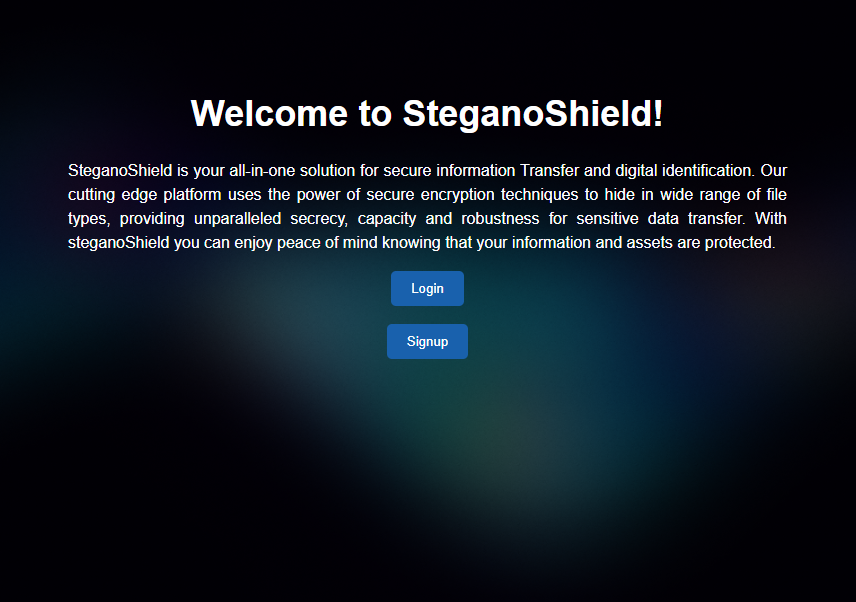
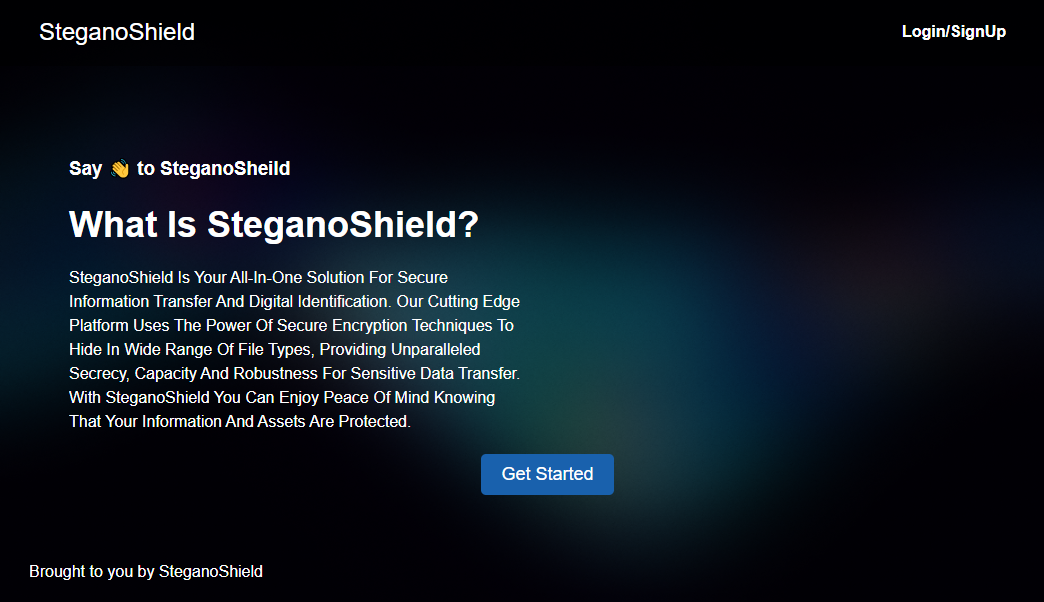
Update UI and fix typos

diff --git a/proj4_html/templates/create_user.html b/proj4_html/templates/create_user.html
@@ -5,6 +5,10 @@
     <link rel="stylesheet" href="/static/css/style.css">
 </head>
 <body>
+    <nav class="navbar1">
+        <div class="logo">SteganoShield</div>
+        </div>
+      </nav>
     <h1>Signup</h1>
     <div class="cardstyle">
         <form method="" action="login.html">

diff --git a/proj4_html/templates/login.html b/proj4_html/templates/login.html
@@ -5,6 +5,10 @@
     <link rel="stylesheet" href="/static/css/style.css">
 </head>
 <body>
+    <nav class="navbar1">
+        <div class="logo">SteganoShield</div>
+      </nav>
+      
     <h1>Login</h1>
 
     <div class="cardstyle">

diff --git a/proj4_html/templates/index.html b/proj4_html/templates/index.html
@@ -19,7 +19,7 @@
   </div>
   <footer class="footer">
     <div class="footer-content">
-      <p>Brought to you by SteganoSield</p>
+      <p>Brought to you by SteganoShield</p>
   </footer>
 </body>
 

diff --git a/proj4_html/README.md b/proj4_html/README.md
@@ -2,7 +2,8 @@
 
 ![Screenshot 1](../proj4_html/screenshots/1_home.png)
 ![Screenshot 2](../proj4_html/screenshots/2_login.png)
-![Screenshot 3](../proj4_html/screenshots/3_dashboard.png)
-![Screenshot 4](../proj4_html/screenshots/4_encrypt.png)
+<!-- ![Screenshot 3](../proj4_html/screenshots/3_dashboard.png) -->
+![Screenshot 3](../proj4_html/screenshots/3_dashboard_updated.png)
+<!-- ![Screenshot 4](../proj4_html/screenshots/4_encrypt.png) -->
 ![Screenshot 5](../proj4_html/screenshots/5_decrypt.png)
 ![Screenshot 6](../proj4_html/screenshots/6_notifications.png)
